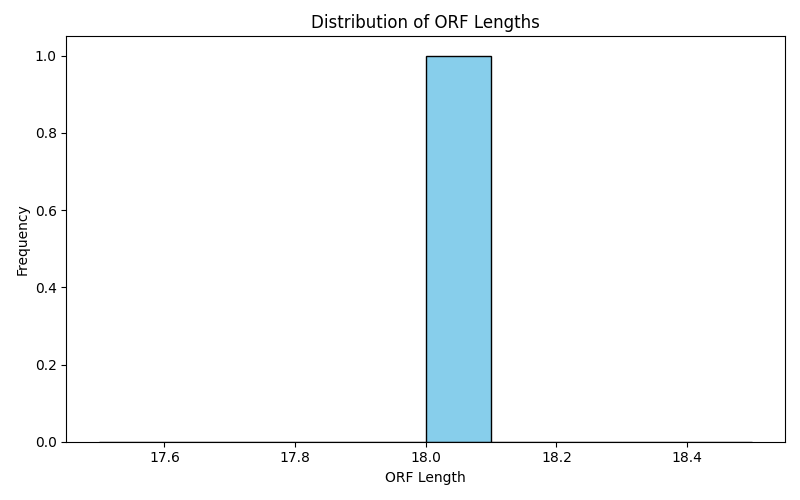
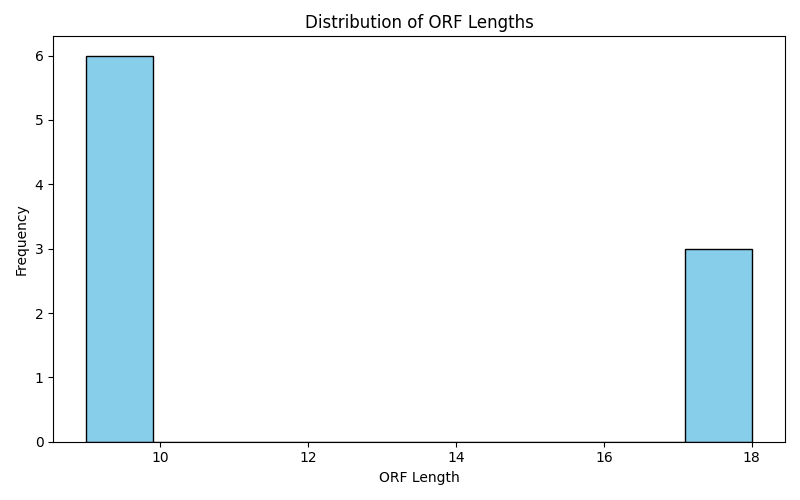
Fix ORF detection logic and update output/visuals

diff --git a/orf_finder_skeleton.py b/orf_finder_skeleton.py
@@ -32,32 +32,51 @@ def reverse_complement(seq):
     return seq.translate(complement)[::-1]
 
 # TODO: Identify ORFs in all 3 reading frames for one strand
-def find_orfs(header, sequence, min_len, strand="+"):
-    """Identify ORFs in all 3 reading frames of one strand."""
-    start_codon = 'ATG'
-    stop_codons = ['TAA', 'TAG', 'TGA']
+def find_orfs(sequence, min_len, strand="+"):
+    """Strand-specific ORF detection that allows adjacent, non-overlapping ORFs and blocks true overlaps."""
+    start_codon = "ATG"
+    stop_codons = ["TAA", "TAG", "TGA"]
     results = []
+    seq_len = len(sequence)
+
+    used = [False] * seq_len  # Used bases for this strand only
 
     for frame in range(3):
         pos = frame
-        while pos <= len(sequence) - 3:
+        while pos <= seq_len - 3:
             codon = sequence[pos:pos+3]
+
             if codon == start_codon:
-                for end in range(pos + 3, len(sequence), 3):
+                # Check if this start codon overlaps an existing ORF
+                if any(used[pos:pos+3]):
+                    pos += 1
+                    continue
+
+                end = pos + 3
+                while end <= seq_len - 3:
                     stop = sequence[end:end+3]
                     if stop in stop_codons:
-                        orf_seq = sequence[pos:end+3]
-                        if len(orf_seq) >= min_len * 3:
-                            if strand == '-':
-                                start_pos = len(sequence) - pos
-                            else:
-                                start_pos = pos + 1
-                            frame_num = frame + 1 if strand == '+' else frame + 4
-                            results.append((frame_num, start_pos, orf_seq, strand))
-                        break  # Do NOT skip ahead — allow overlapping ORFs
-                pos += 1  # Slide one base to allow overlapping ORFs
+                        orf_len = end + 3 - pos
+                        if orf_len >= min_len * 3:
+                            # Only block ORFs that truly overlap
+                            if not any(used[pos:end]):
+                                orf_seq = sequence[pos:end+3]
+                                if strand == '+':
+                                    start_pos = pos + 1
+                                    frame_num = frame + 1
+                                else:
+                                    start_pos = seq_len - pos
+                                    frame_num = frame + 4
+                                results.append((frame_num, start_pos, orf_seq, strand))
+                                for i in range(pos, end):  # exclude stop codon
+                                    used[i] = True
+                                pos = end + 3  # move past stop codon
+                                break
+                    end += 3
+                else:
+                    pos += 3
             else:
-                pos += 3
+                pos += 1
     return results
 
 # TODO: Return formatted FASTA header and codon-separated sequence
@@ -108,36 +127,53 @@ def create_visualization(orf_data, output_path):
 
 # TODO: Implement user input, sequence processing, and ORF printing and save the file
 def main():
+    # Ask user for FASTA file and minimum ORF length
     fasta_file = input("Enter FASTA filename: ")
     min_len_input = input("Enter minimum ORF length (default 5): ")
     min_len = int(min_len_input) if min_len_input.isdigit() else 5
 
+    # Load sequences from the FASTA file
     sequences = load_fasta(fasta_file)
     print(f"Loaded sequences: {list(sequences.keys())}")
 
+    # Set paths for output FASTA file and visualization images
     output_path = "./output/orfs/orf_output.fasta"
     visualization_path = "./output/visualization/orf_visualization.png"
 
+    # Make sure output directories exist
     os.makedirs(os.path.dirname(output_path), exist_ok=True)
     os.makedirs(os.path.dirname(visualization_path), exist_ok=True)
 
+    # Store all ORFs across all sequences for summary and visualization
     all_orfs = []
+
+    # Open output file for writing ORF results
     with open(output_path, 'w') as out_file:
+        # Loop through each sequence in the FASTA file
         for header, seq in sequences.items():
-            orfs_forward = find_orfs(header, seq, min_len, strand='+')
+            # Find forward strand ORFs
+            orfs_forward = find_orfs(seq, min_len, strand='+')
             all_orfs.extend([(header, *orf) for orf in orfs_forward])
 
+            # Find reverse strand ORFs (from reverse complement)
             rev_seq = reverse_complement(seq)
-            orfs_reverse = find_orfs(header, rev_seq, min_len, strand='-')
+            orfs_reverse = find_orfs(rev_seq, min_len, strand='-')
             all_orfs.extend([(header, *orf) for orf in orfs_reverse])
 
+            # Print and write formatted ORF output
             for orf in orfs_forward + orfs_reverse:
                 frame, position, orf_seq, strand = orf
                 formatted = format_orf_output(header, frame, position, orf_seq, strand)
                 print(formatted.strip())
                 out_file.write(formatted)
 
+    # Create and save visualization charts
     create_visualization(all_orfs, visualization_path)
+
+# Run the program
+if __name__ == "__main__":
+    main()
+
 
 if __name__ == "__main__":
     main()
